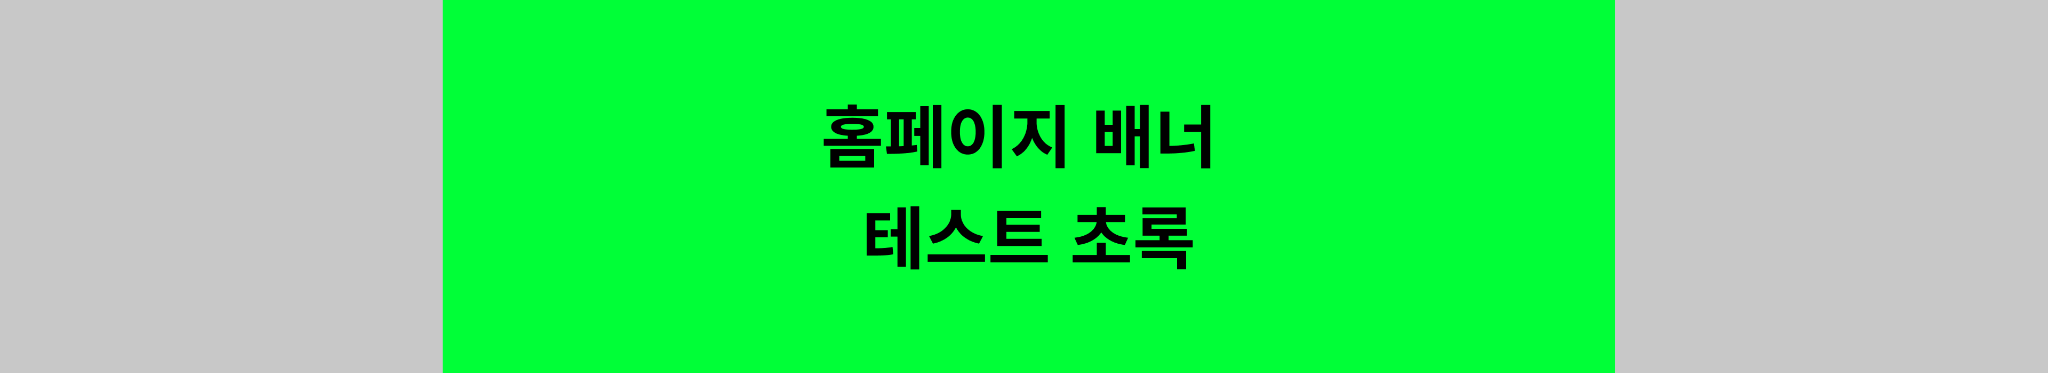
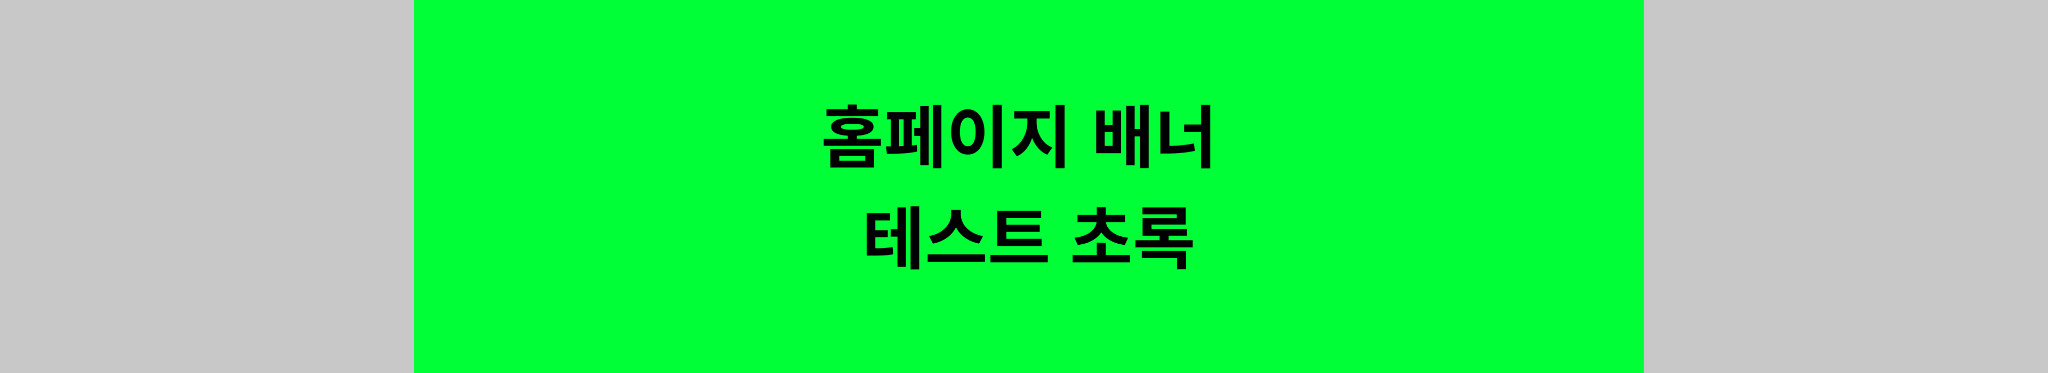
feat : header, footer 수정, main 작업중

Changed region(s): [[0.7812, 0.0, 0.8125, 1.0], [0.1875, 0.0, 0.2188, 1.0]]

diff --git a/unipet/src/main/webapp/css/main.css b/unipet/src/main/webapp/css/main.css
@@ -1,11 +1,21 @@
+/* 특정 이하에서 가로 스크롤 생성 */
+@media (max-width: 1400px) {
+    .page-layout {
+        min-width: 1400px;
+    }
+}
+
+/* 메인 컨테이너 */
 .container-main {
     width: 100%;
-    max-width: 1200px;
+    max-width: 1400px;
+    min-width: 1400px;
     margin: 0 auto;
     padding: 0 20px;
     box-sizing: border-box;
 }
 
+/* 배너 섹션은 화면 전체 */
 .main-banner-section {
     width: 100%;
 }
@@ -43,36 +53,34 @@
     object-fit: cover;
 }
 
-/* 🔥 핵심: 초록박스 영역 기준 레이어 */
+/* 버튼 기준용 내부 박스
+   배너는 풀폭이지만 버튼은 가운데 1400 기준으로 움직임 */
 .banner-overlay-inner {
     position: absolute;
     top: 0;
     left: 50%;
-    width: 68%;              /* 🔥 여기 조절 (초록박스 비율) */
+    width: 1400px;
     height: 100%;
     transform: translateX(-50%);
     z-index: 5;
     pointer-events: none;
 }
 
-/* 버튼 위치 (초록박스 기준 오른쪽 아래) */
+/* 버튼 */
 .banner-controls {
     position: absolute;
-    right: 0px;
+    right: 20px;
     bottom: 20px;
-
     display: flex;
     align-items: center;
     gap: 10px;
-
     background-color: rgba(0, 0, 0, 0.28);
     padding: 8px 14px;
     border-radius: 999px;
-
     pointer-events: auto;
 }
 
-/* 화살표 버튼 */
+/* 화살표 */
 .banner-btn {
     width: 24px;
     height: 24px;
@@ -80,27 +88,23 @@
     padding: 0;
     cursor: pointer;
     background-color: transparent;
-
     font-size: 34px;
     color: #ffffff;
     line-height: 1;
-
     display: flex;
     align-items: center;
     justify-content: center;
-
     position: relative;
     top: -2px;
 }
 
-/* 하단 dots */
+/* dots */
 .banner-dots {
     position: absolute;
     left: 50%;
     bottom: 20px;
     transform: translateX(-50%);
     z-index: 5;
-
     display: flex;
     gap: 6px;
 }
@@ -115,4 +119,10 @@
 
 .banner-dot.active {
     background-color: #ffffff;
+}
+
+/* ------------------ 배너 아래 --------------------- */
+
+.under{
+    height: 30px;
 }

diff --git a/unipet/src/main/webapp/css/header.css b/unipet/src/main/webapp/css/header.css
@@ -1,19 +1,13 @@
 /* 헤더 전체 */
 .site-header {
-    position: fixed;
+    position: sticky;
     top: 0;
-    left: 0;
+    z-index: 1000;
     width: 100%;
     min-width: 1400px;
-    z-index: 1000;
     padding: 10px 0;
     background-color: #ffffff;
     border-bottom: 1px solid #eeeeee;
-}
-
-/* 헤더가 fixed라 본문이 가려지는 걸 방지하는 전용 spacer */
-.site-header-spacer {
-    height: 80px;
 }
 
 /* 헤더 안쪽 컨테이너 */
@@ -22,7 +16,8 @@
     max-width: 1400px;
     min-width: 1400px;
     margin: 0 auto;
-    padding: 0 48px;
+    padding: 0 20px;
+    box-sizing: border-box;
     display: flex;
     align-items: center;
     justify-content: space-between;
@@ -161,5 +156,5 @@
 .site-header .user-icon {
     width: 34px;
     height: 34px;
-    display: block;   /* 🔥 중요 */
+    display: block;
 }

diff --git a/unipet/src/main/webapp/css/footer.css b/unipet/src/main/webapp/css/footer.css
@@ -1,13 +1,19 @@
+/* 푸터 전체 */
 .site-footer {
     width: 100%;
+    min-width: 1400px;
     border-top: 1px solid #bdbdbd;
+    background-color: #f3f3f3;
 }
 
 /* 내부 정렬 */
 .site-footer .footer-inner {
-    max-width: 1000px;     /* 전체 콘텐츠 영역 */
-    margin: 0 auto;        /* 가운데 정렬 */
-    padding: 0 40px;       /* 좌우 여백 */
+    width: 100%;
+    max-width: 1400px;
+    min-width: 1400px;
+    margin: 0 auto;
+    padding: 0 20px;
+    box-sizing: border-box;
 }
 
 /* 메뉴 */
@@ -22,6 +28,7 @@
 /* 메뉴-정보 사이 선 */
 .site-footer .footer-divider {
     width: 100%;
+    min-width: 1400px;
     height: 1px;
     background-color: #c9c9c9;
 }

diff --git a/unipet/src/main/java/com/example/unipet/controller/MainController.java b/unipet/src/main/java/com/example/unipet/controller/MainController.java
@@ -4,7 +4,11 @@ import java.util.HashMap;
 
 import org.springframework.stereotype.Controller;
 import org.springframework.web.bind.annotation.RequestMapping;
+import org.springframework.web.bind.annotation.RequestMethod;
 import org.springframework.web.bind.annotation.RequestParam;
+import org.springframework.web.bind.annotation.ResponseBody;
+
+import com.google.gson.Gson;
 
 import ch.qos.logback.core.model.Model;
 import jakarta.servlet.http.HttpServletRequest;
@@ -14,6 +18,15 @@ public class MainController {
 	@RequestMapping("/main.do") 
 	public String copy(HttpServletRequest request, Model model, @RequestParam HashMap<String, Object> map) throws Exception{
 		return "main/main";
+	}
+	
+	@RequestMapping(value = "/main.dox", method = RequestMethod.POST, produces = "application/json;charset=UTF-8")
+	@ResponseBody
+	public String copy(Model model, @RequestParam HashMap<String, Object> map) throws Exception {
+		HashMap<String, Object> resultMap = new HashMap<String, Object>();
+//		resultMap = 서비스객체.함수(map);
+ 
+		return new Gson().toJson(resultMap); 
 	}
 	
 }
